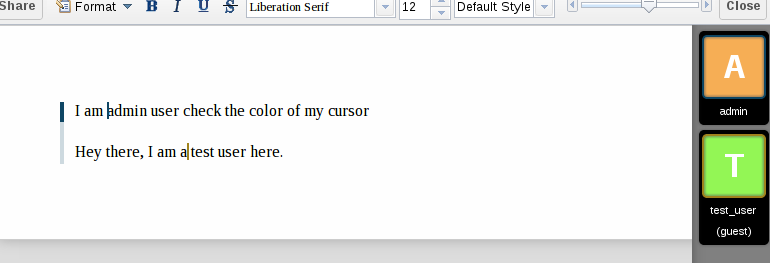
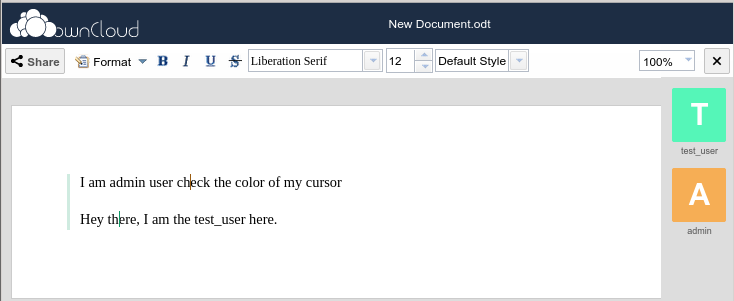
new images for documents app

diff --git a/user_manual/documents.rst b/user_manual/documents.rst
@@ -55,7 +55,8 @@ border color of their user picture.
 
 If a user is not a local user (e.g accessing the file using public link), they
 will be shown as guest in the user list, automatically named Guest 1, Guest 2, 
-and so on. Guests can change their nicknames at any time.
+and so on. Guests can change their nicknames at any time by clicking on their
+names or thumbnails in the user list.
 
 Delete a Document
 ~~~~~~~~~~~~~~~~~
